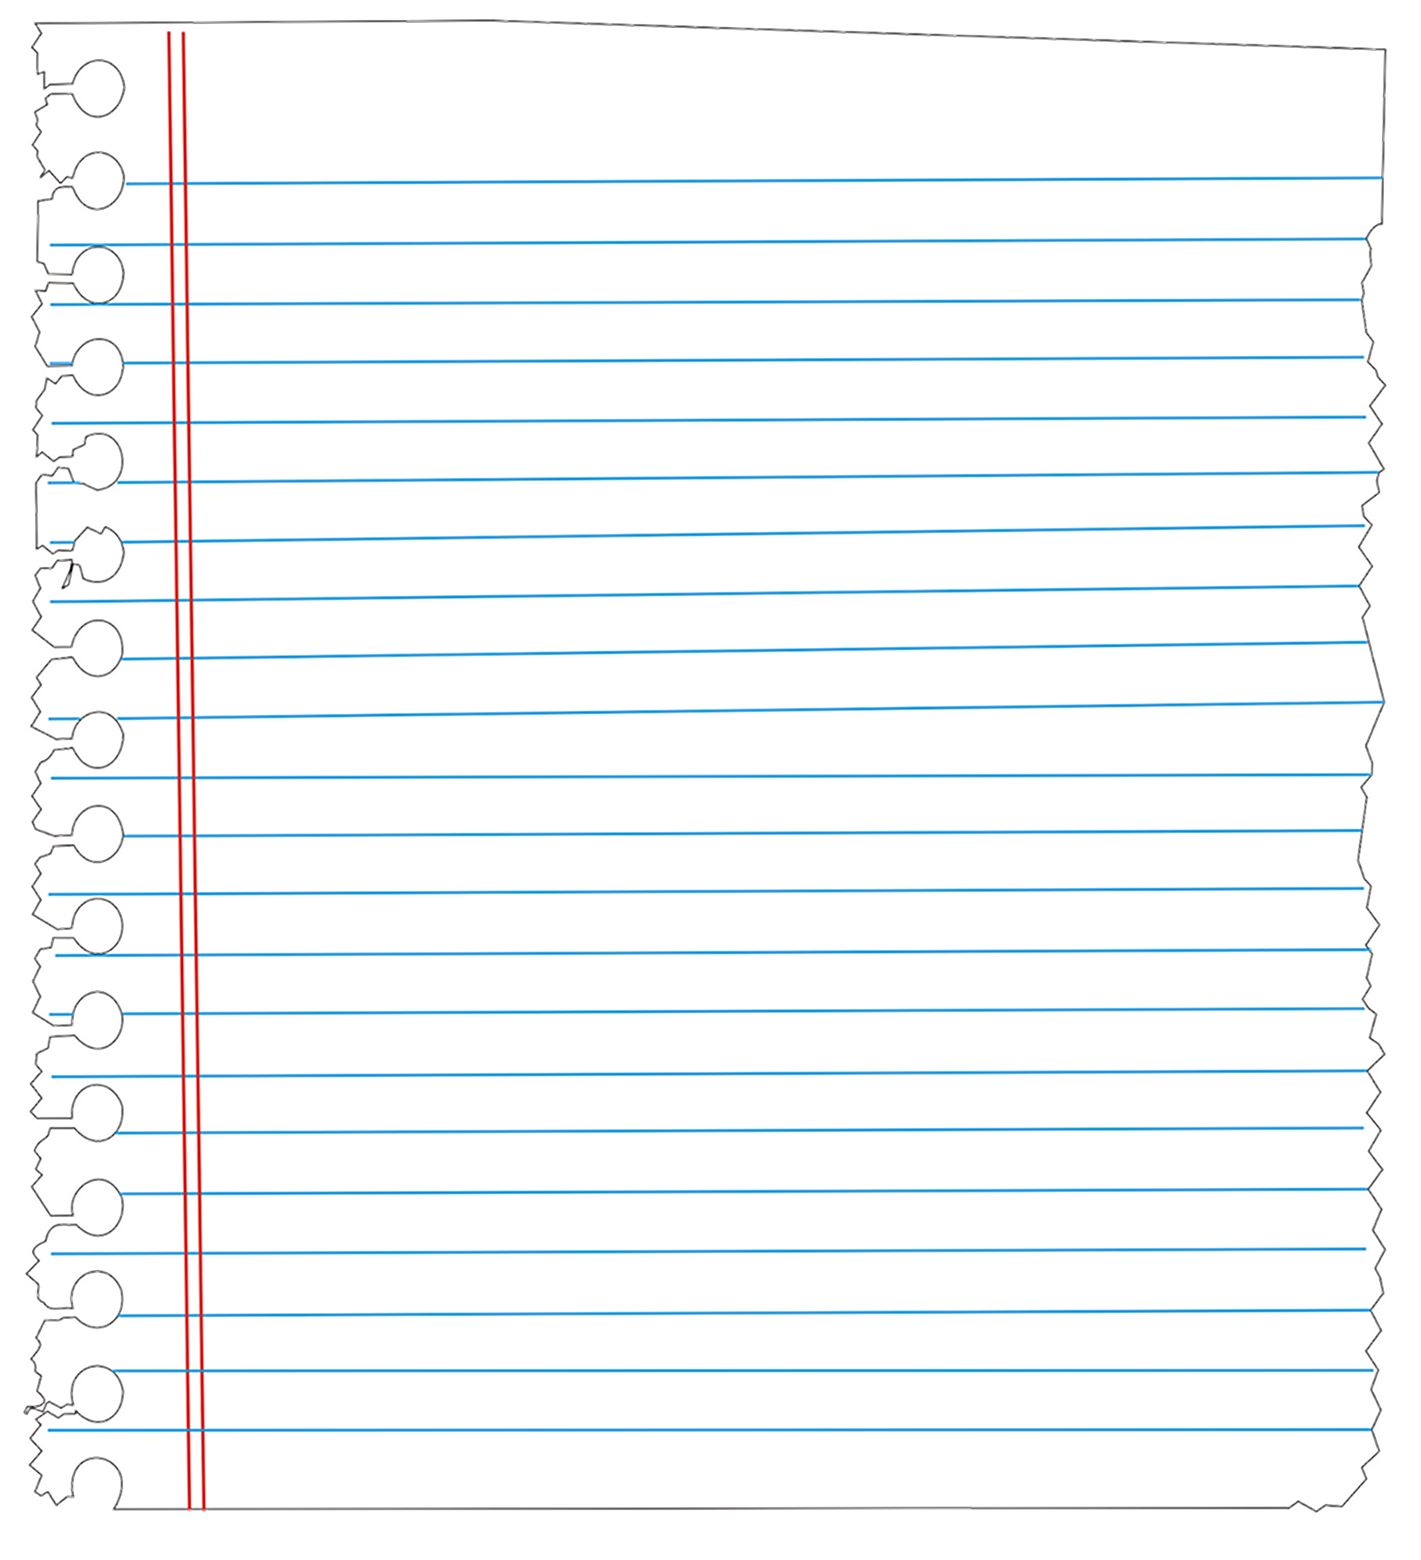
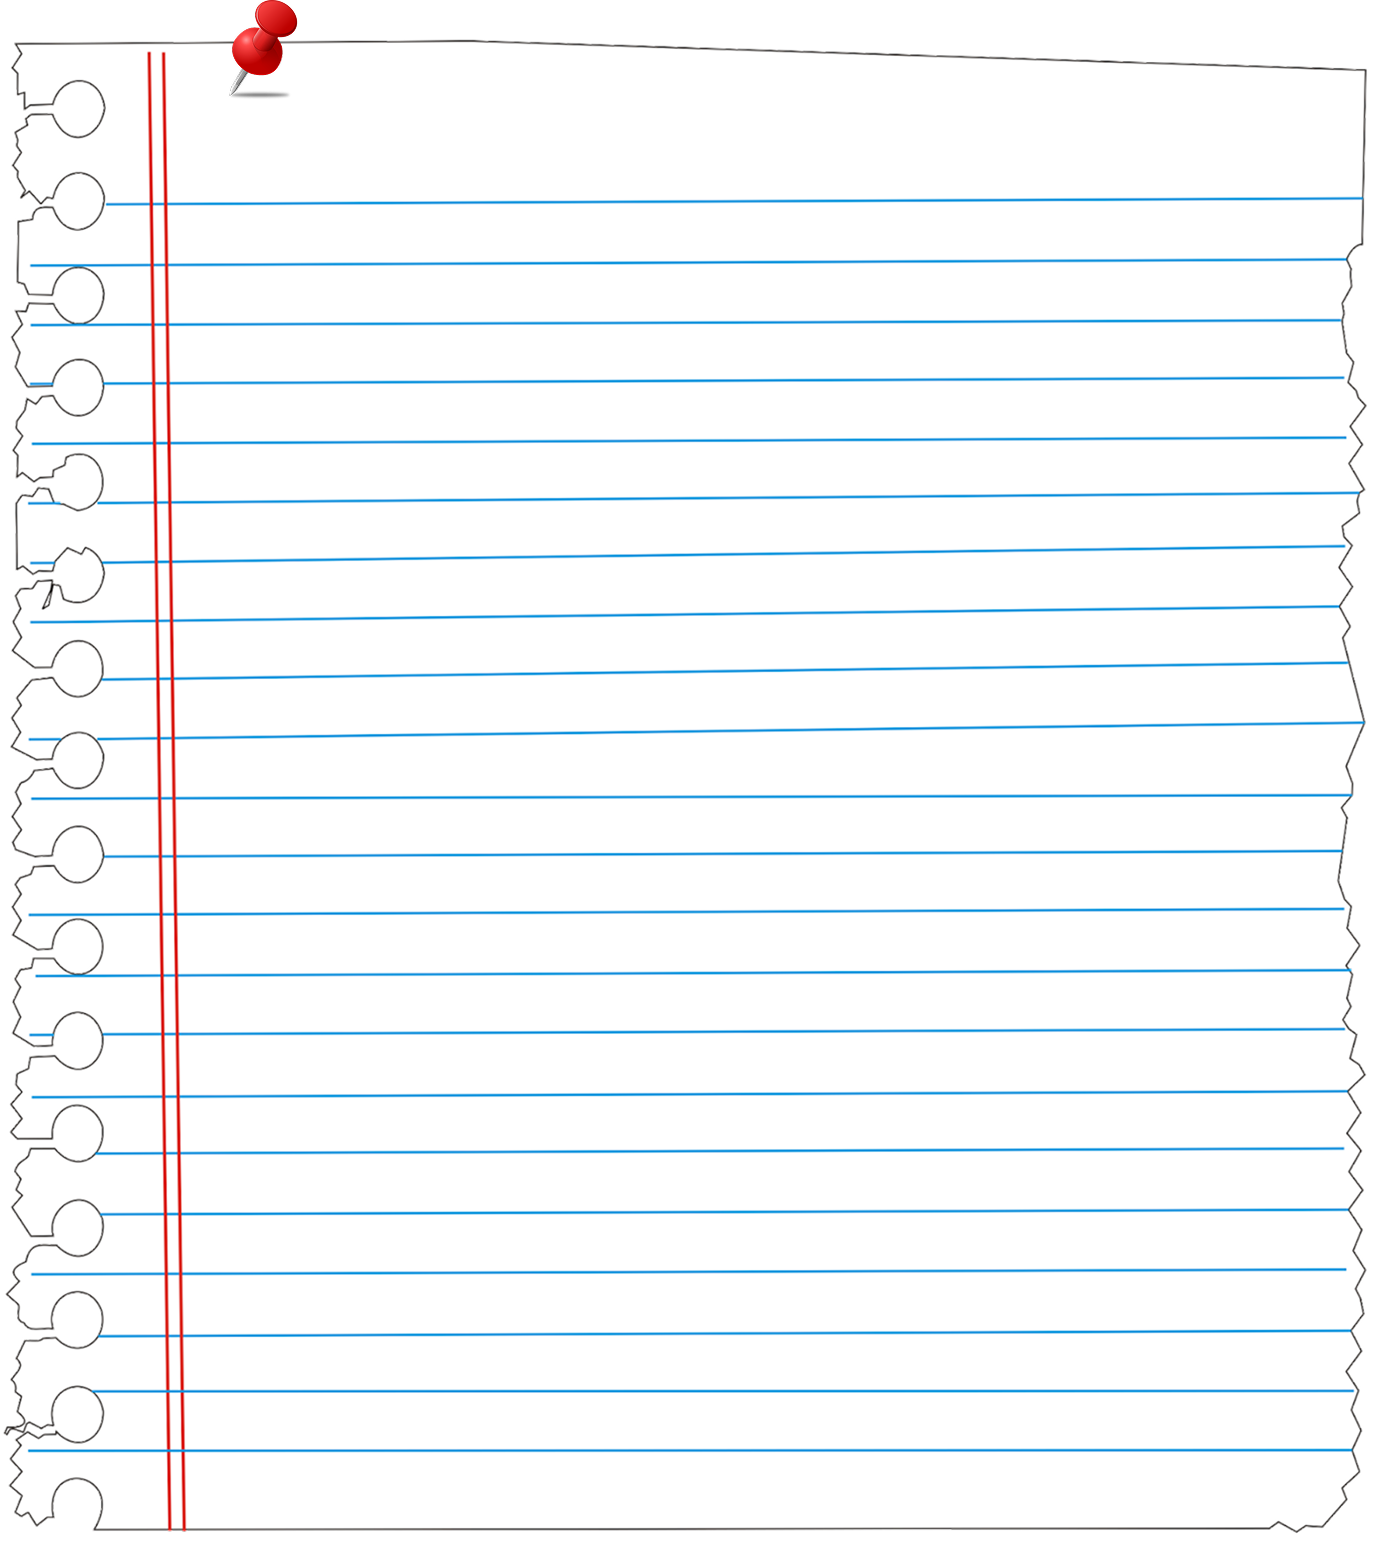
design: 게시글 작성 배경 이미지 위치 조정

Changed region(s): [[0.0, 0.0, 0.9985, 0.9922]]

diff --git a/fillit_frontend/src/pages/NewArticlePage.tsx b/fillit_frontend/src/pages/NewArticlePage.tsx
@@ -89,17 +89,19 @@ const NewArticlePage = () => {
         right="regist"
         onRegistClick={handleOpenKeywordModal}
       />
-      <div className="w-full overflow-auto botton-[10rem]">
-        {/* 배경 종이 이미지 */}
+      {/* 배경 종이 이미지 */}
+      <div className="fixed top-[7.8%] max-w-[600px]">
         <img
           src={NewArticleImg}
-          className="fixed -left-3.5 bottom-0 max-w-[750px]"
           alt="paper background"
+          className="h-[88vh] object-cover object-left"
         />
+      </div>
+      <div className="w-full overflow-auto botton-[10rem]">
         {/* 텍스트 입력 및 이미지 미리보기 영역 */}
-        <div className="relative z-10 pt-24 pl-24 pr-5">
+        <div className="relative z-10 pt-28 pl-24 pr-5">
           <textarea
-            className="w-full min-h-[23vh] font-extralight text-2xl bg-transparent outline-none  placeholder:text-gray-400"
+            className="w-full min-h-[23vh] font-extralight text-2xl bg-transparent outline-none  placeholder:text-gray-500"
             placeholder="What's happening?"
             value={content}
             onChange={(e) => setContent(e.target.value)}
